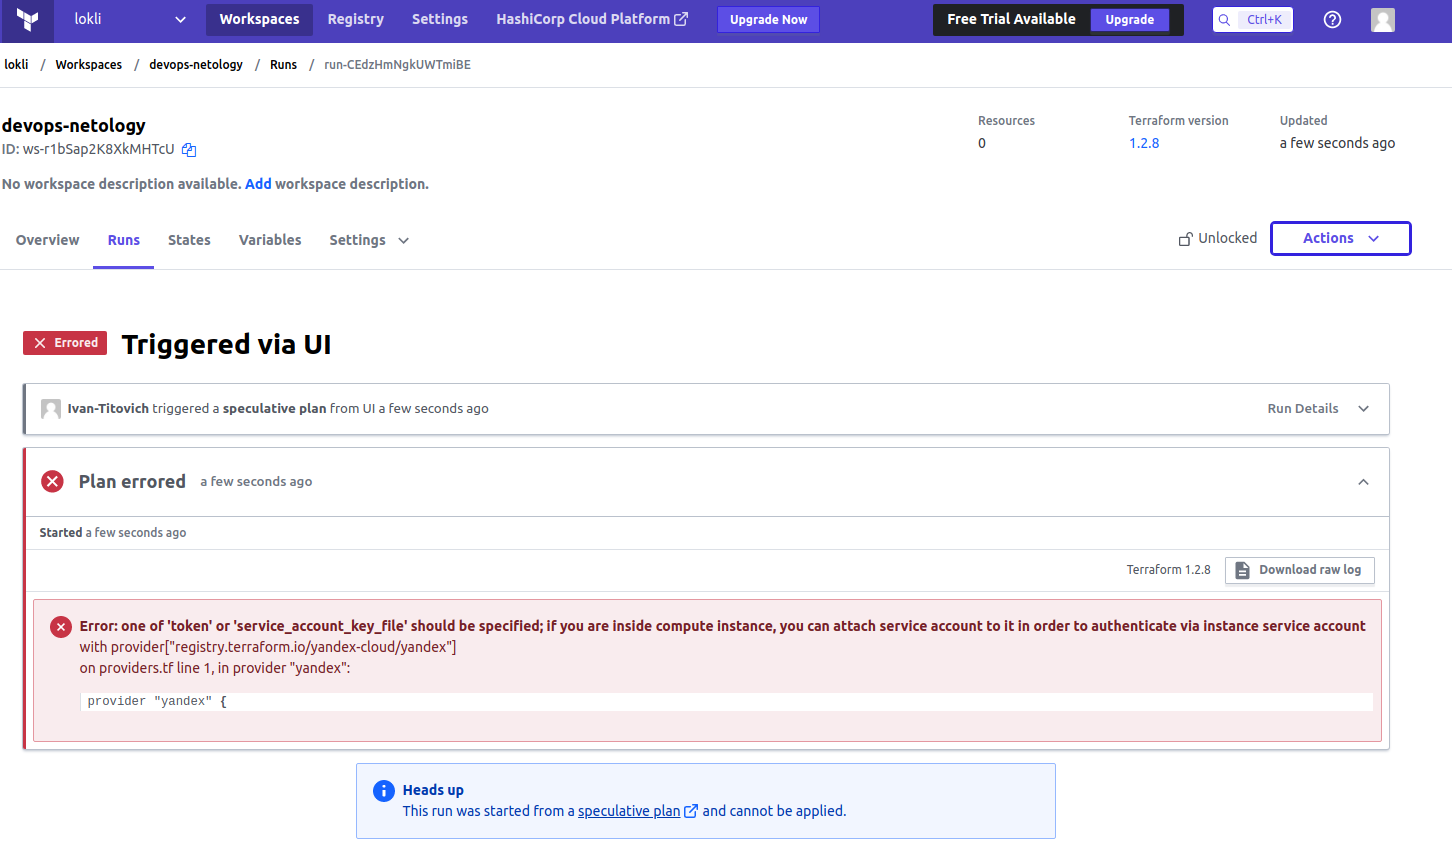
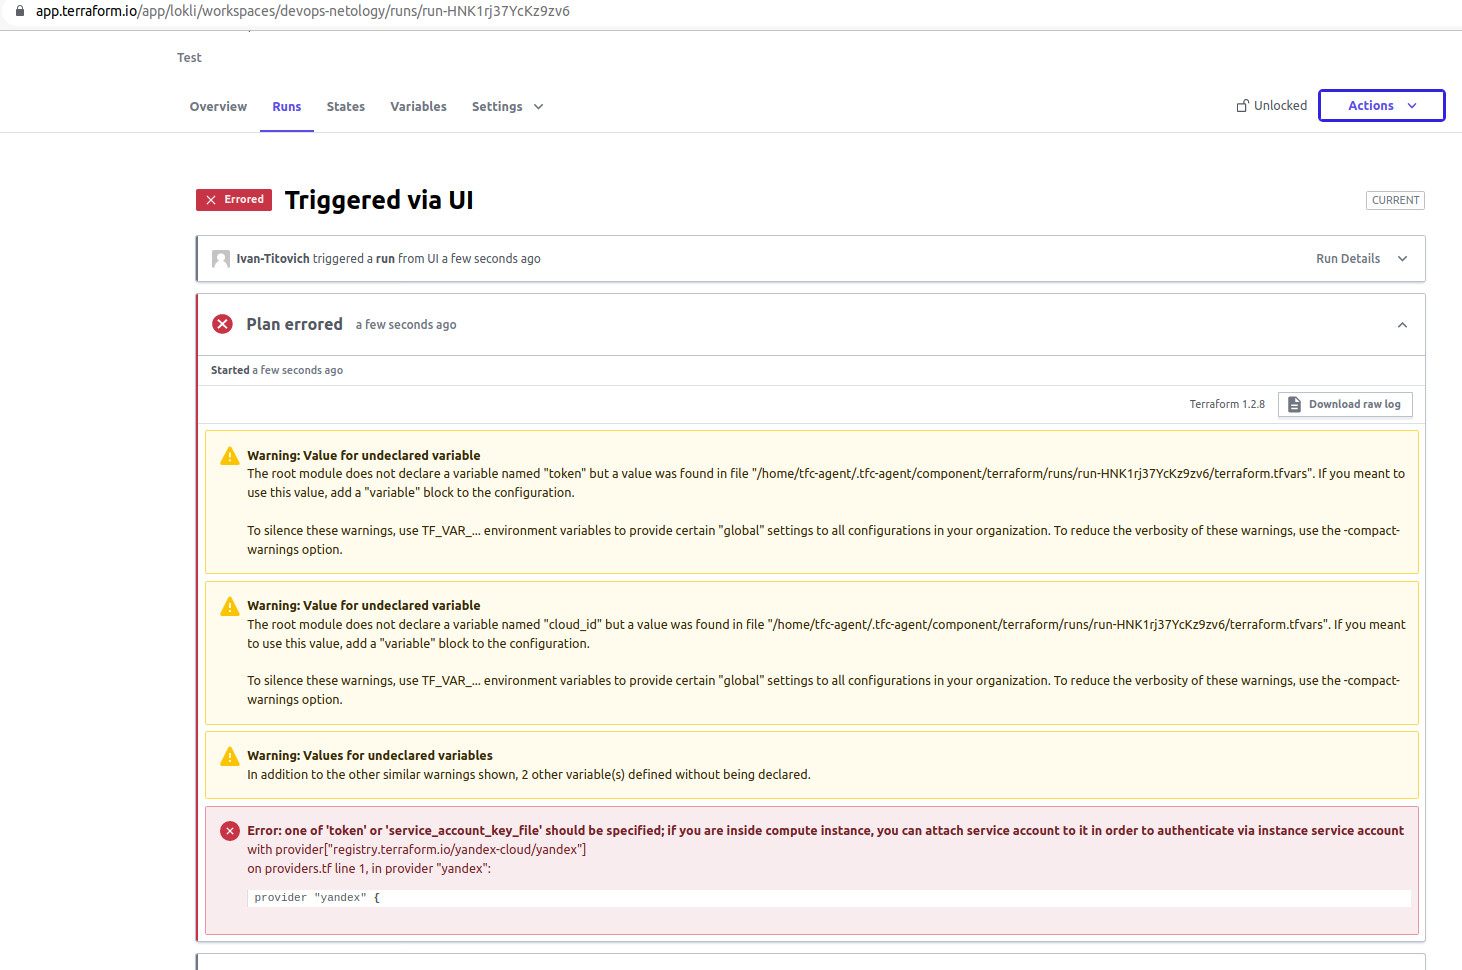
[07-terraform-04-teamwork] 1-2 tasks completed

diff --git a/sysadmin/07-terraform-04-teamwork/README.md b/sysadmin/07-terraform-04-teamwork/README.md
@@ -1,4 +1,4 @@
-# Домашнее задание к занятию "7.4. Средства командной работы над инфраструктурой."
+# Домашняя работа к занятию "7.4. Средства командной работы над инфраструктурой."
 
 ## Задача 1. Настроить terraform cloud (необязательно, но крайне желательно).
 
@@ -16,7 +16,8 @@
 
 
 >
-> >Возможно ли запустить в terraform cloud на исполнение терраформ план для яндекс облака? 
+> >Возможно ли запустить в terraform cloud на исполнение терраформ план для яндекс облака?
+> >Пробовал добавлять переменные в terraform cloud, но данную ошибку забороть не получилось. 
 >
 > 
 > ![screenshot](./src/screen1.png)
@@ -32,22 +33,39 @@
 будет указать свои дополнительные команды. 
 1. В `workflow` используемом по-умолчанию сделайте так, что бы во время планирования не происходил `lock` состояния.
 
+
 Создай `atlantis.yaml` который, если поместить в корень terraform проекта, скажет атлантису:
 1. Надо запускать планирование и аплай для двух воркспейсов `stage` и `prod`.
 1. Необходимо включить автопланирование при изменении любых файлов `*.tf`.
 
 В качестве результата приложите ссылку на файлы `server.yaml` и `atlantis.yaml`.
-
+> [server.yaml](./atlantis/server.yaml)
+> 
+> [atlantis.yaml](./atlantis/atlantis.yaml)
 ## Задача 3. Знакомство с каталогом модулей. 
 
 1. В [каталоге модулей](https://registry.terraform.io/browse/modules) найдите официальный модуль от aws для создания
 `ec2` инстансов. 
+> [ec2-instance](https://registry.terraform.io/modules/terraform-aws-modules/ec2-instance/aws/4.1.4)
 2. Изучите как устроен модуль. Задумайтесь, будете ли в своем проекте использовать этот модуль или непосредственно 
 ресурс `aws_instance` без помощи модуля?
+> По сути модуль может принимать большое количество переменных, на основе которых создается aws-instance. 
+> Модуль удобно использовать, когда необходимо создать несколько или много однотипных (с разными переменными среды) экземпляров объектов. 
+>
+>В своих проектах (в образовательных целях) лучше стараться использовать `aws_instance`, хотя использовать модули тоже нужно уметь.
+ 
 3. В рамках предпоследнего задания был создан ec2 при помощи ресурса `aws_instance`. 
-Создайте аналогичный инстанс при помощи найденного модуля.   
+Создайте аналогичный инстанс при помощи найденного модуля.
+В качестве результата задания приложите ссылку на созданный блок конфигураций.
 
-В качестве результата задания приложите ссылку на созданный блок конфигураций. 
+> Т.к. доступа к AWS нет - задание выполнял в yandex cloud. 
+> Для примера если взять конфиг:
+>
+>[aws-instance.tf](./terraform/main_aws-instance.tf)
+
+
+> C использованием модуля он будет выглядеть примерно следующим образом:  
+> [AWS-EC2-instance.tf](./terraform/main_ec2-instance.tf)
 
 ---
 
